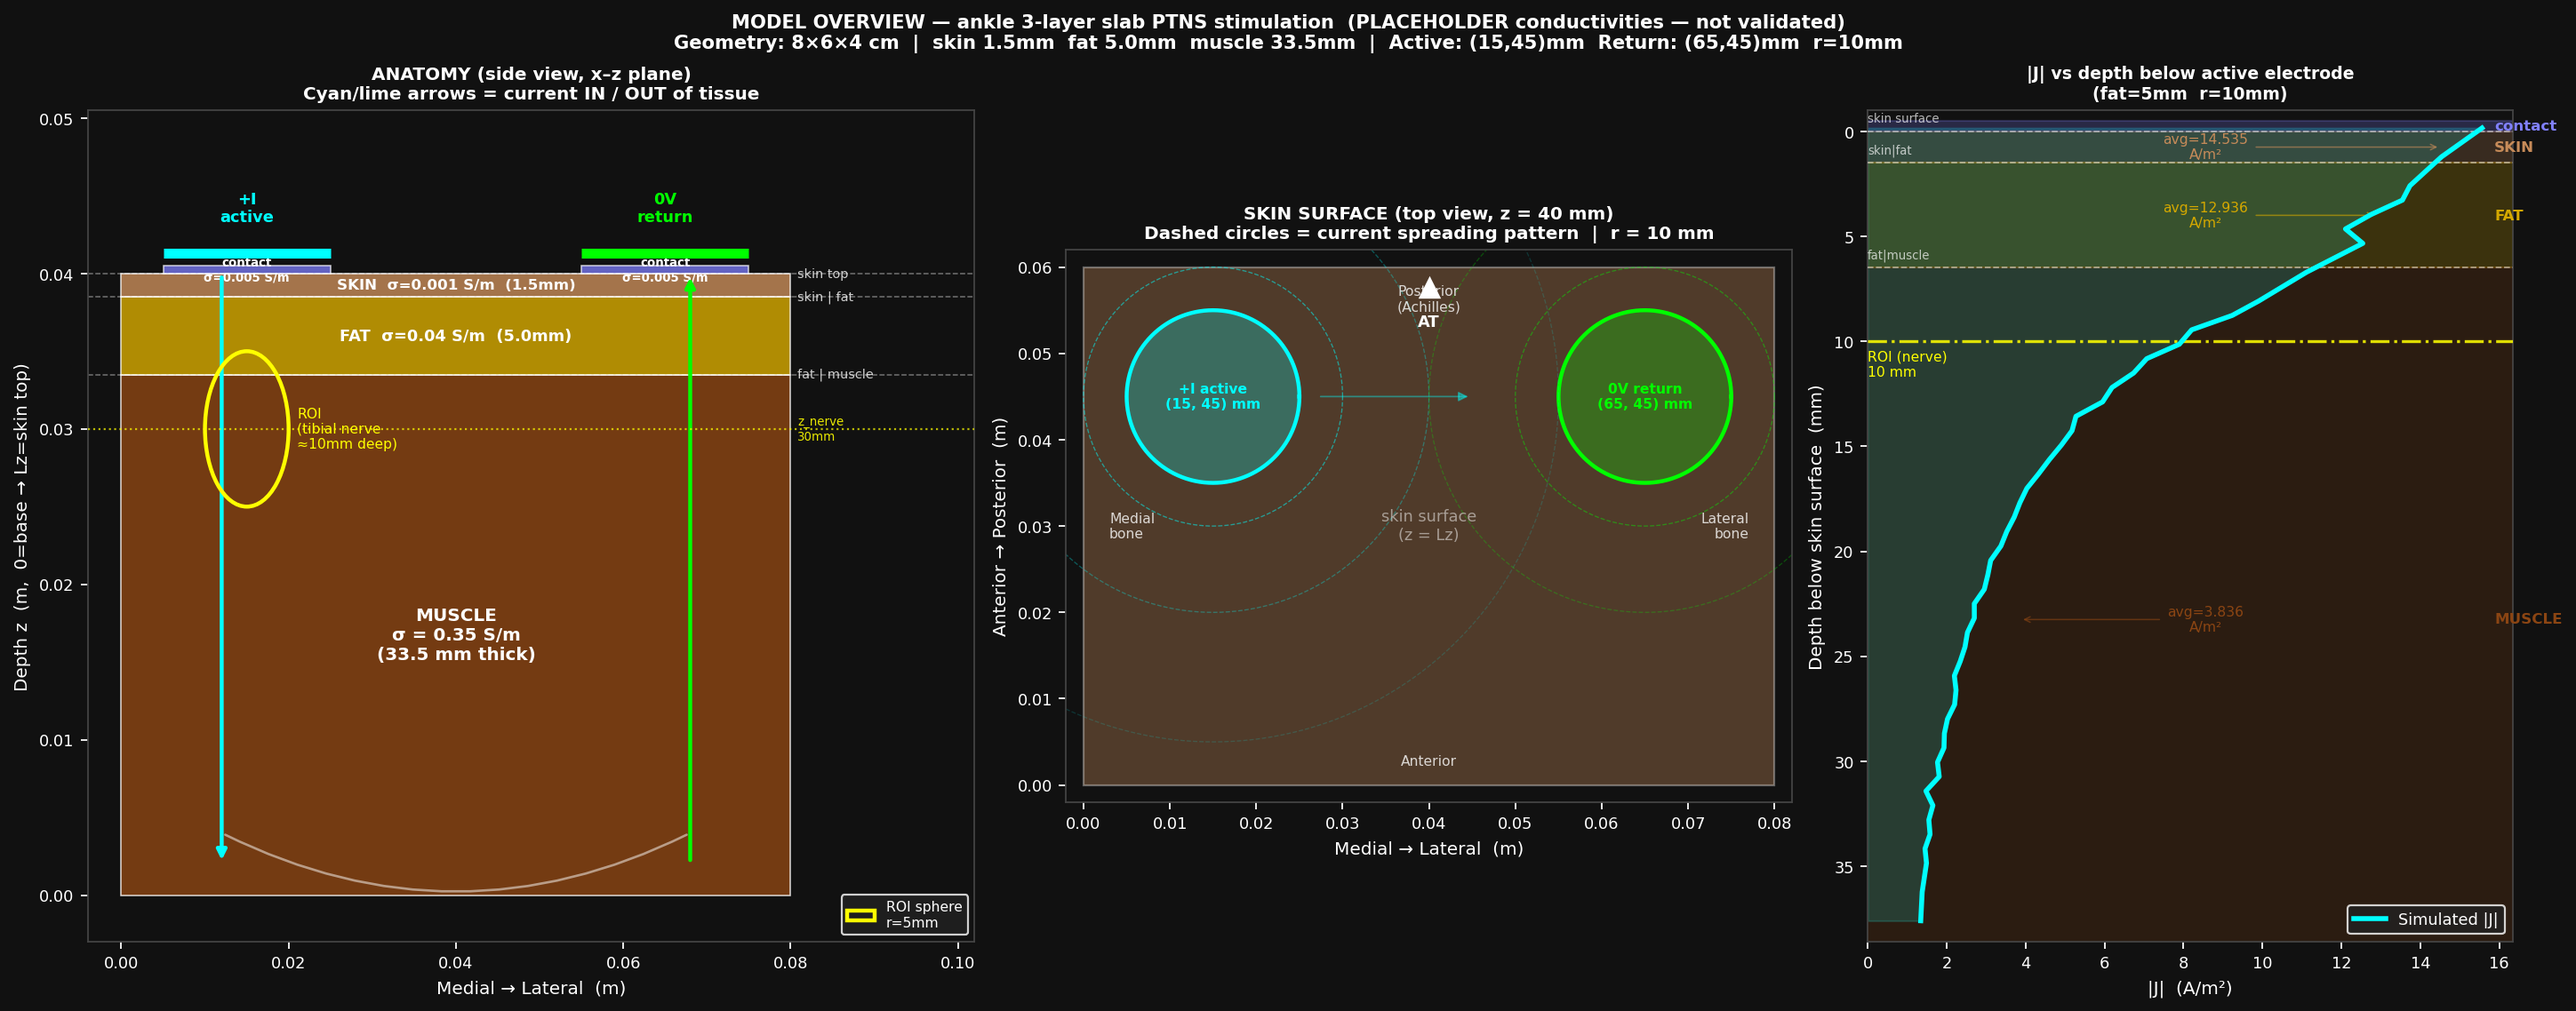
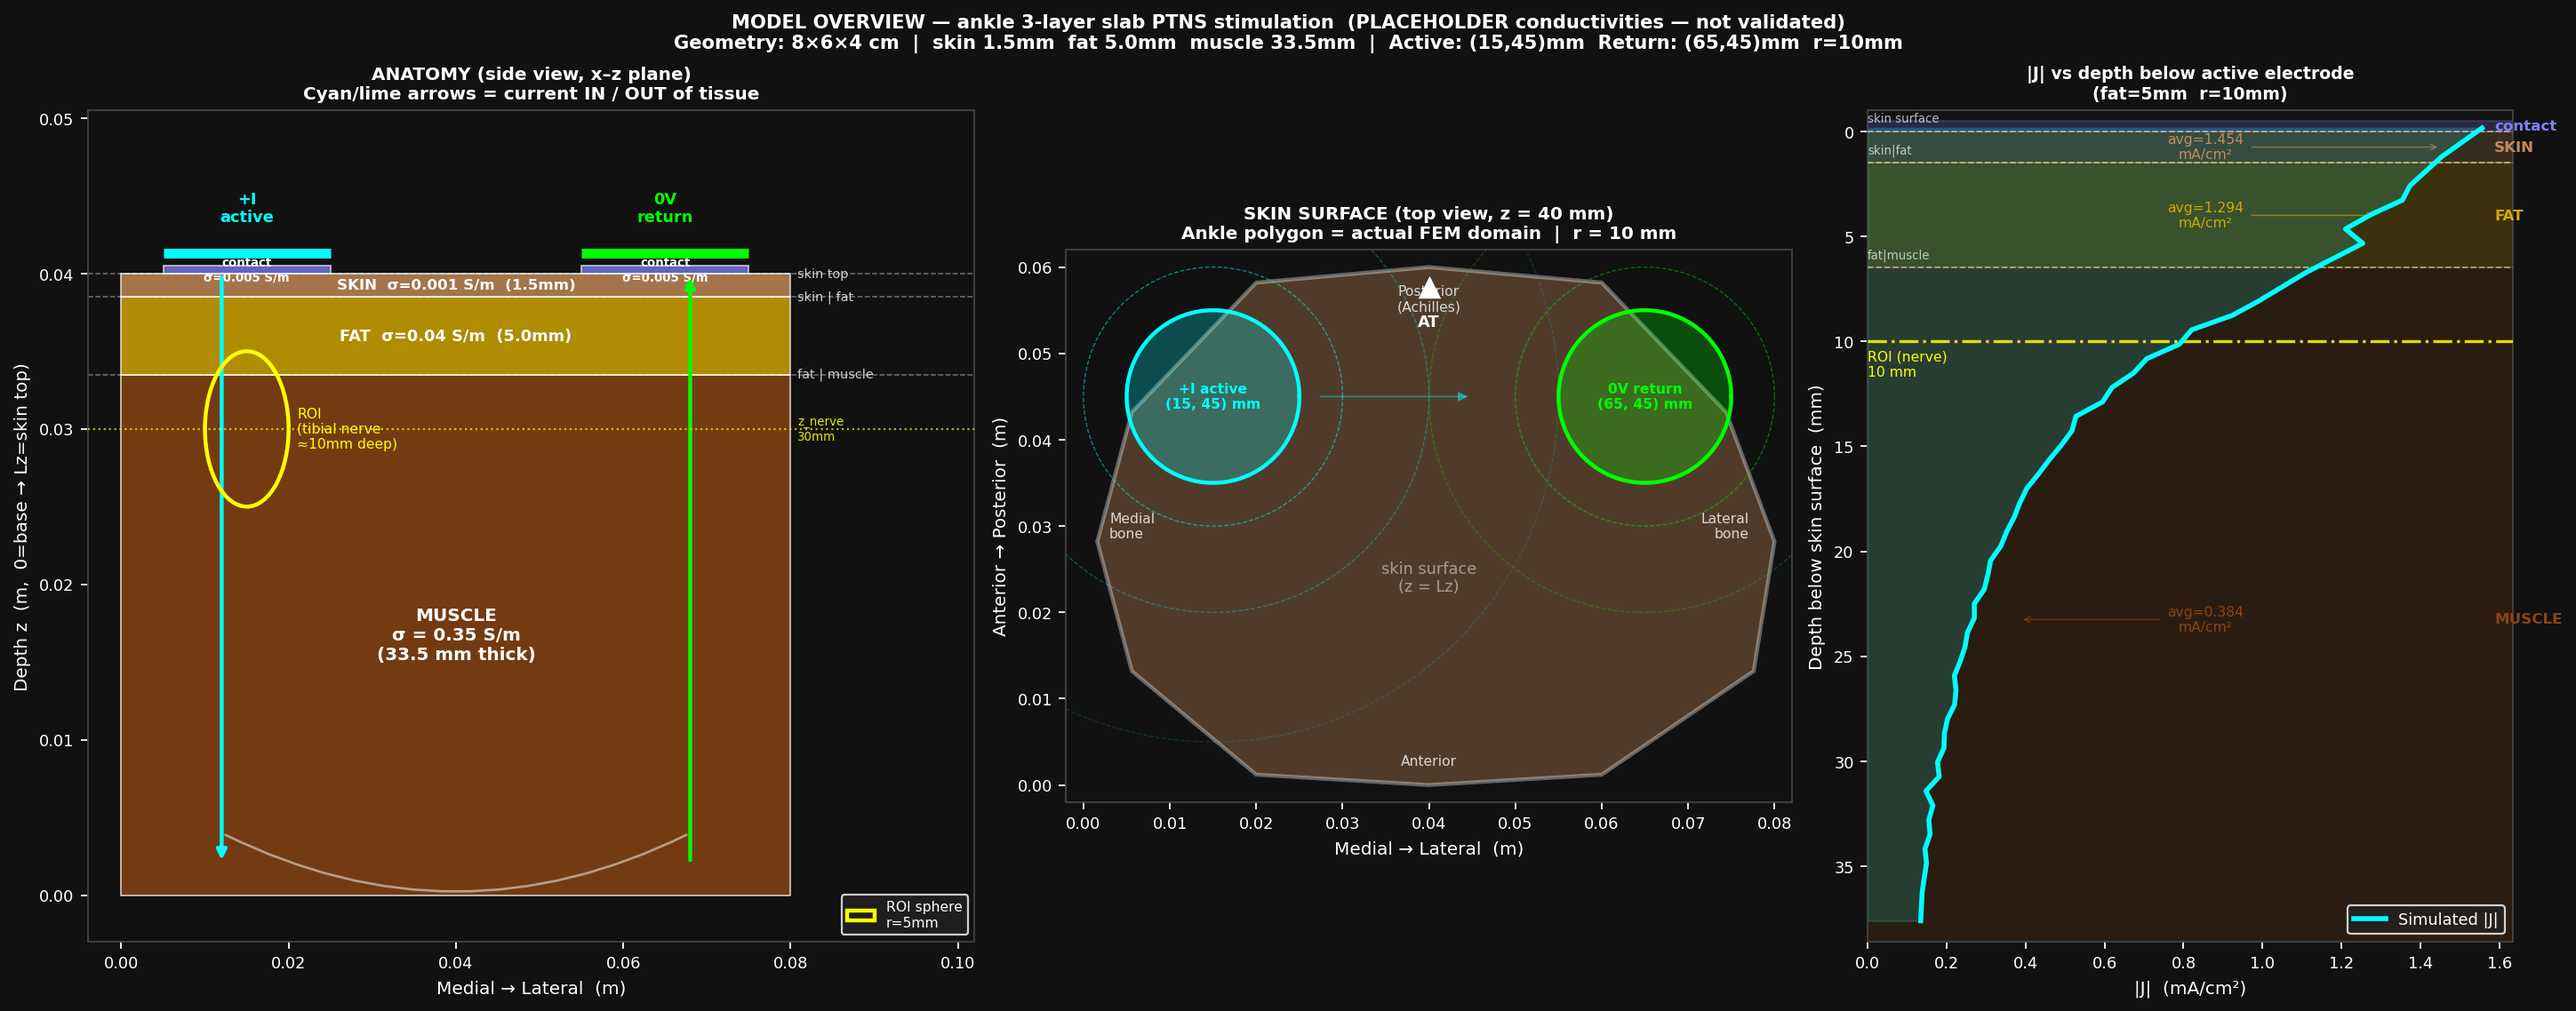
update surface model

diff --git a/step03_ankle_layers/plot_layered_results.py b/step03_ankle_layers/plot_layered_results.py
@@ -958,7 +958,7 @@ def plot_model_diagram(p, summary=None):
     ax_top.set_ylabel("Anterior → Posterior  (m)", color=TC, fontsize=9)
     ax_top.set_title(
         f"SKIN SURFACE (top view, z = {Lz*1000:.0f} mm)\n"
-        f"Dashed circles = current spreading pattern  |  r = {r_mid_mm:.0f} mm",
+        f"Ankle polygon = actual FEM domain  |  r = {r_mid_mm:.0f} mm",
         color=TC, fontsize=9, fontweight="bold")
 
     # ─── Panel 3: |J| vs depth below active electrode ─────────────────────────
@@ -991,7 +991,7 @@ def plot_model_diagram(p, summary=None):
                 valid   = np.isfinite(bin_J)
                 if valid.sum() >= 3:
                     depth_data     = bin_d[valid]
-                    Jmag_data      = np.array(bin_J)[valid]
+                    Jmag_data      = np.array(bin_J)[valid] * 0.1  # A/m² → mA/cm²
                     profile_source = vtu_label
         except Exception as exc:
             print(f"  model_diagram: profile extraction failed: {exc}")
@@ -1003,13 +1003,13 @@ def plot_model_diagram(p, summary=None):
         ax.fill_betweenx(depth_data, 0, Jmag_data, color="cyan", alpha=0.18)
         Jmax = float(Jmag_data.max()) if len(Jmag_data) > 0 else 1.0
     else:
-        # Schematic profile (exponential-like decay as placeholder)
+        # Schematic profile (exponential-like decay as placeholder); units mA/cm²
         d_sch  = np.linspace(0, Lz*1000, 200)
-        J_sch  = np.exp(-d_sch / 12) * 5.0
+        J_sch  = np.exp(-d_sch / 12) * 0.5   # ~0.5 mA/cm² peak (≈5 A/m²)
         ax.plot(J_sch, d_sch, color="cyan", lw=2.0, ls="--", zorder=5,
                 label="Schematic (no VTU)")
         ax.fill_betweenx(d_sch, 0, J_sch, color="cyan", alpha=0.12)
-        Jmax = 5.5
+        Jmax = 0.55
         depth_data = d_sch
 
     ax.set_ylim(depth_data.max() + 1, -1)   # depth increases downward
@@ -1055,14 +1055,14 @@ def plot_model_diagram(p, summary=None):
             jav = _layer_avg(d0, d1)
             if np.isfinite(jav):
                 dmid = (d0 + d1) / 2
-                ax.annotate(f"avg={jav:.3f}\nA/m²",
+                ax.annotate(f"avg={jav:.3f}\nmA/cm²",
                             xy=(jav, dmid),
                             xytext=(Jmax * 0.55, dmid),
                             fontsize=7, color=clr, ha="center", va="center",
                             arrowprops=dict(arrowstyle="->", color=clr,
                                            lw=0.7, alpha=0.6))
 
-    ax.set_xlabel("|J|  (A/m²)", color=TC, fontsize=9)
+    ax.set_xlabel("|J|  (mA/cm²)", color=TC, fontsize=9)
     ax.set_ylabel("Depth below skin surface  (mm)", color=TC, fontsize=9)
     ax.set_title(
         f"|J| vs depth below active electrode\n"
